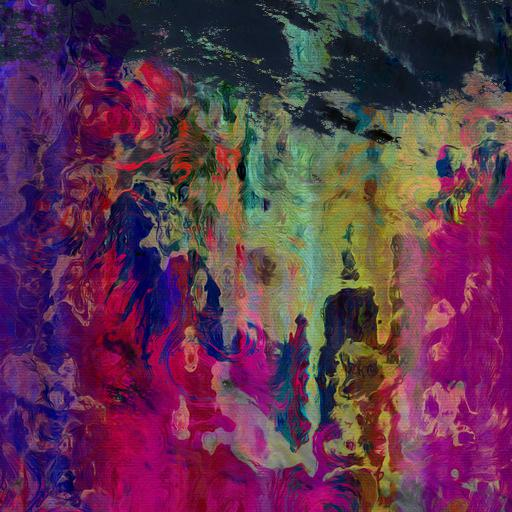
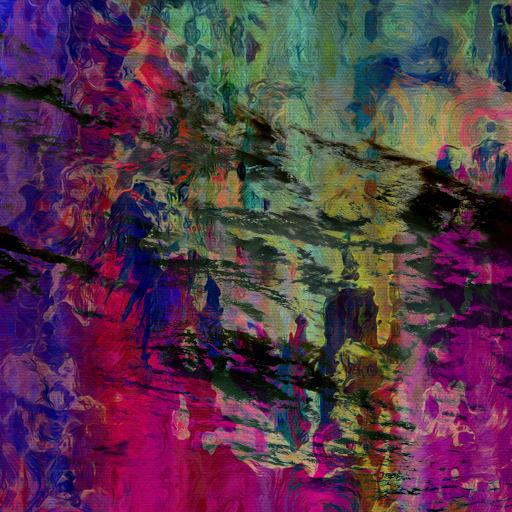
enhanced actually enhanced

diff --git a/templates/index.html b/templates/index.html
@@ -83,7 +83,7 @@ nav {
 
 
 // event listeners
-    document.getElementById('enhance').addEventListener('click',() => {
+    document.getElementById('filter').addEventListener('click',() => {
         let output = '';
 
         for(let i=1; i<=4; i++) {
@@ -91,7 +91,7 @@ nav {
                 <div class="col">
                 <div class="card mb-4" style="width:400px">
                     <img src="media/outputs/Artified_img-${i}.jpg" class="card-img-top"/>
-                    <div class="card-body"><p>yoyoyoyo${i}</p></div>
+                    <div class="card-body"><p>popopo${i}</p></div>
                 </div>
                 </div>
             `;
@@ -99,6 +99,14 @@ nav {
         console.log()
         document.getElementById('django-returns').innerHTML = output;
     });
+
+    document.getElementById('enhance').addEventListener('click', () => {
+            document.getElementById('django-returns').innerHTML = `
+                <div class="card">
+                    <img src="media/outputs/Enhanced_Image.jpg" class="card-img-top"/>
+                </div>
+            `;
+        });
     
        
 

diff --git a/templates/app.html b/templates/app.html
@@ -18,8 +18,7 @@
 
     <div class="col">
         <div id="django-returns">
-            {% load static %}
-            <img src="media/1.jpg" />
+       
         </div>
     </div>
 </div>

diff --git a/home/views.py b/home/views.py
@@ -4,13 +4,13 @@ import requests
 import random as rn
 from io import BytesIO
 import os
-from Spaceapps.settings import TEMPLATE_DIR as dry
+from Spaceapps.settings import TEMPLATE_DIR as dry,MEDIA_ROOT as mr
 # Create your views here.
 def index(request):
         global d
         d = "https://gibs.earthdata.nasa.gov/wmts/epsg4326/best/MODIS_Terra_CorrectedReflectance_TrueColor/default/2012-07-09/250m/6/"+str(rn.randint(1,39))+"/"+str(rn.randint(1,79))+".jpg"
         manipulate()
-        #enhance()
+        enhance()
         print(dry+"/filters/")
         return render(request,"app.html", {'img':d})
 
@@ -19,11 +19,11 @@ def manipulate():
     img = Image.open(BytesIO(response.content))
     size = img.size
     for y in range(1,5):
-        img2=Image.open(os.path.join(dry,"filters","filter({}).jpg".format(y)))
+        img2=Image.open(os.path.join(mr,"filters","filter({}).jpg".format(y)))
         img2=img2.resize(size, Image.ANTIALIAS)
-        img3=ImageChops.blend(img,img2,alpha=(4/10))
+        img3=ImageChops.blend(img,img2,alpha=(2/10))
         img3=ImageChops.darker(img,img2)
-        img3.save(os.path.join(dry,"outputs","Artified_img-{}.jpg".format(y)))
+        img3.save(os.path.join(mr,"outputs","Artified_img-{}.jpg".format(y)))
 
  
 def enhance():    
@@ -38,4 +38,4 @@ def enhance():
     enhancer = ImageEnhance.Sharpness(img)
     factor=2
     img=enhancer.enhance(factor)
-    img.save("/outputs/Enhanced_Image.jpg")
+    img.save(os.path.join(mr,"outputs","Enhanced_Image.jpg"))
